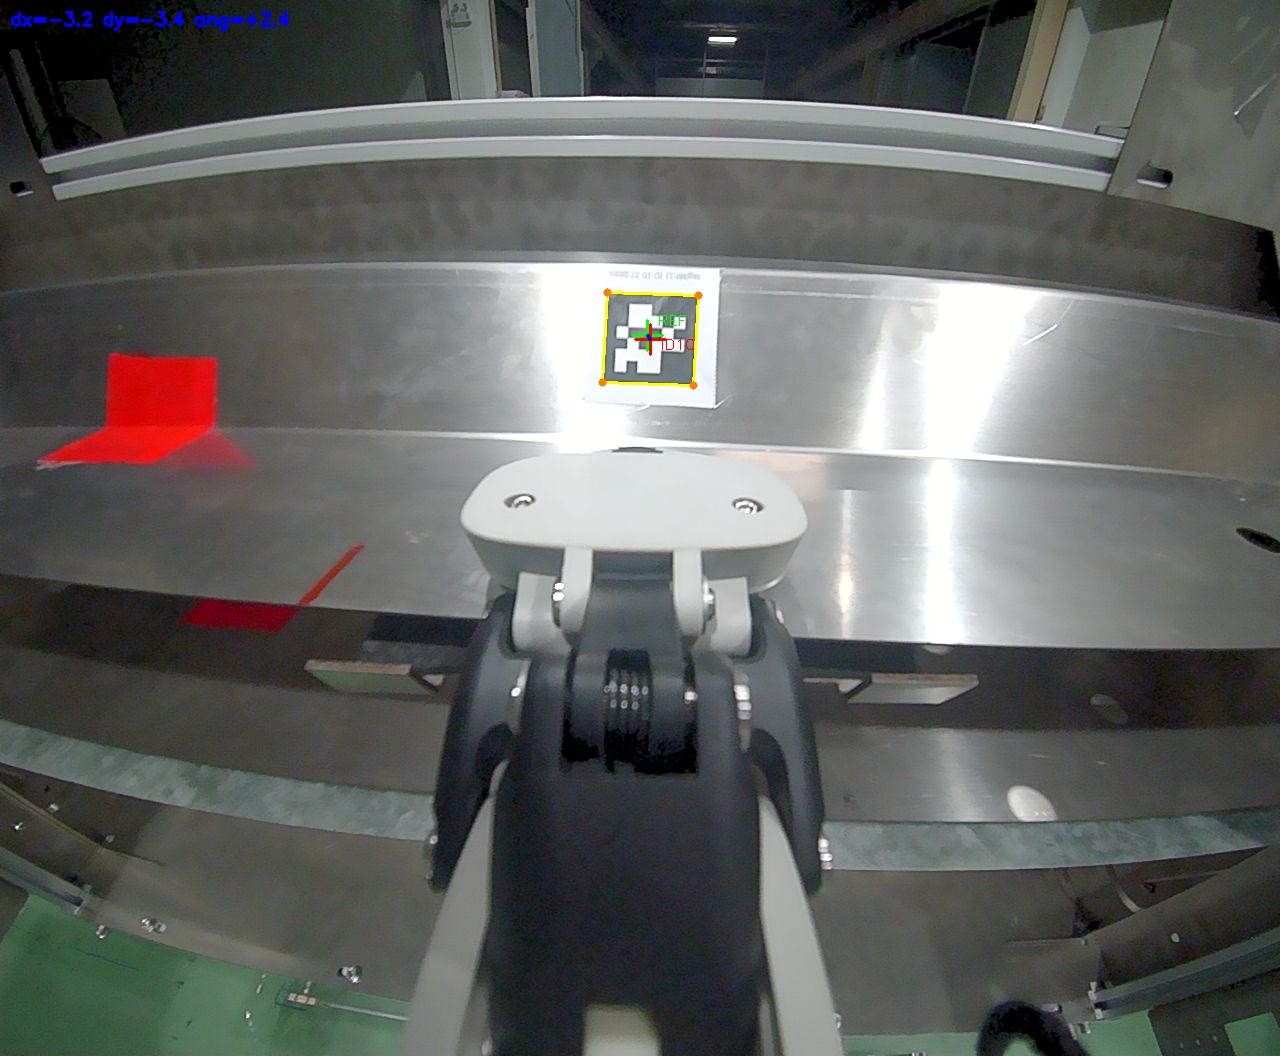
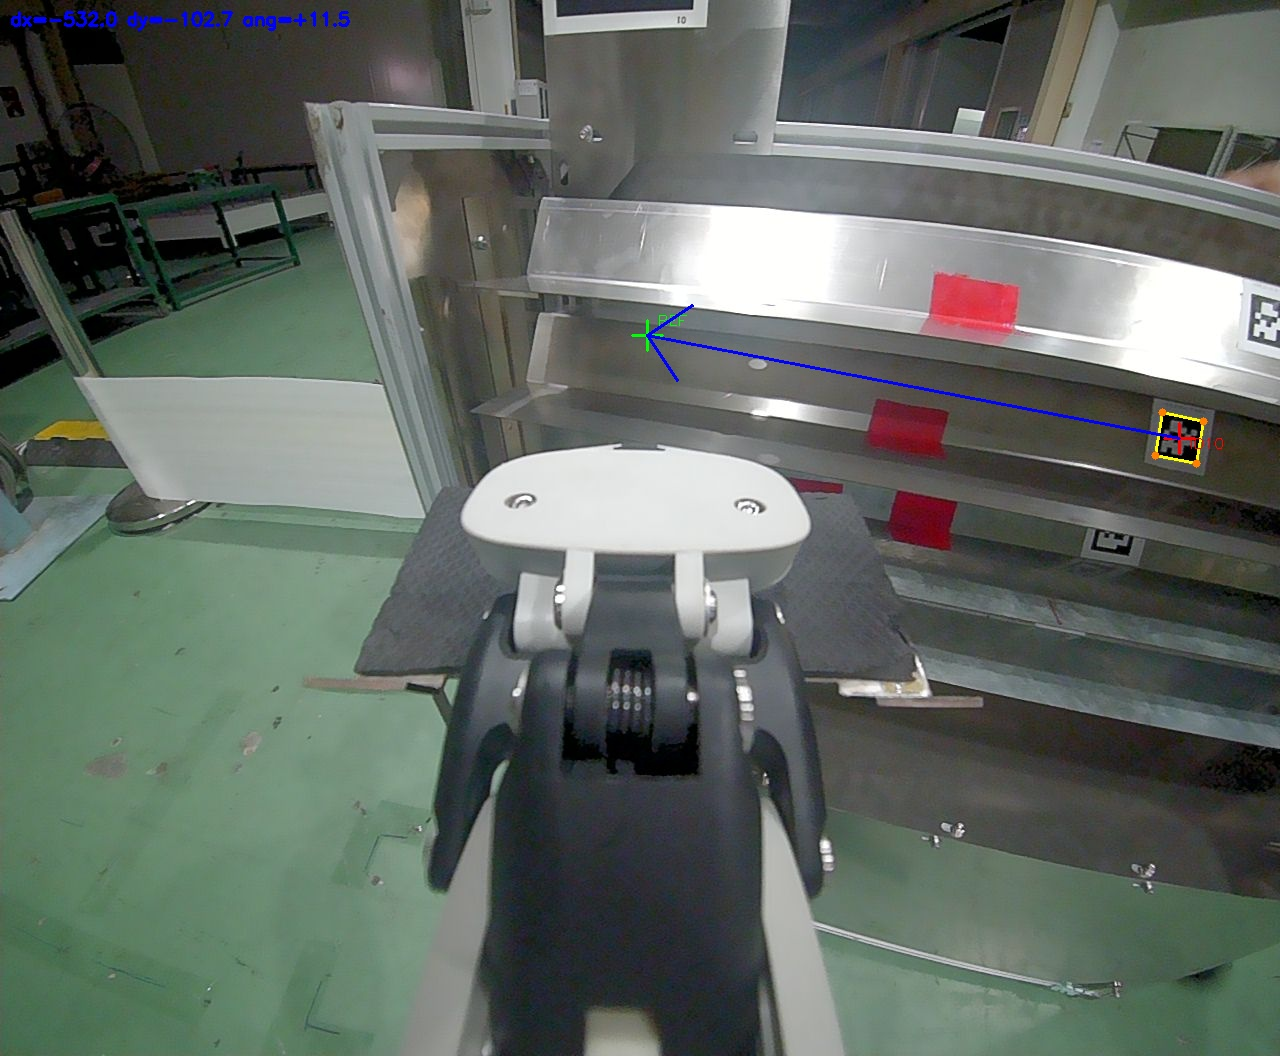
增加腰部纠偏

diff --git a/runtime/workfllow.py b/runtime/workfllow.py
@@ -17,6 +17,20 @@ MAP_POS_PutSmall = 6
 
 G2 = Minth.G2()
 
+def absence_detection(ROI):
+    while True:
+        img_path = capture_head_color(G2)
+        img = cv2.imread(img_path)
+        if img.shape[:2] != (400, 640):
+            img = cv2.resize(img, (640, 400))
+        result = analyze_top_workpiece(img,ROI)
+        if result == 0:
+            break
+        else:
+            playMp3()
+            # G2.TTS("ワークが取り除かれるのを待機；等待工件拿开")
+            time.sleep(5)
+
 def playMp3(mp3="/playMP3"):
     # 往 localhost:1883 /playMP3 发送 MP3 播放命令
     _mqtt = mqtt.Client(mqtt.CallbackAPIVersion.VERSION2, client_id="bbbb_mp3")
@@ -25,26 +39,12 @@ def playMp3(mp3="/playMP3"):
     _mqtt.publish(mp3, json.dumps({"cmd": "play", "file": "JPCH1.mp3"}), qos=0)
 
 def putA():
-    G2.ARMS("a3")
-    # G2.GO(5)
-    G2.ARMS("a5")
     G2.REL({"x": -1.7,"y": -1.7}) 
     G2.GO(MAP_POS_PutSmall)
     positioning("/data/wxf/wxf0721/runtime/references-tag/ref_id5_id6_dun.json",G2=G2)
     G2.WBC("xx")
 
-    while True:
-        img_path = capture_head_color(G2)
-        img = cv2.imread(img_path)
-        if img.shape[:2] != (400, 640):
-            img = cv2.resize(img, (640, 400))
-        result = analyze_top_workpiece(img,(0,215,440,img.shape[0]-215))
-        if result == 0:
-            break
-        else:
-            playMp3()
-            # G2.TTS("ワークが取り除かれるのを待機；等待工件拿开")
-            time.sleep(5)
+    absence_detection((0,215,440,400-215))
 
     G2.WBC("W2.3")
     G2.WBC("W2")
@@ -62,10 +62,9 @@ def putA():
     G2.WBC("W10") 
 
 def UpPutBig():
-    # G2.ARMS("a3")
-    # G2.GO(3)
+    G2.GO(3)
     G2.WBC("xx")
-    # G2.GO(MAP_POS_PutBig)
+    G2.GO(MAP_POS_PutBig)
     results = pt("/data/wxf/wxf0721/runtime/references-tag/ref_id3_id4_20260901_133511.json",G2=G2)
     _res = results[-1]
     offestX = -_res["dt"][0]
@@ -87,25 +86,12 @@ def UpPutBig():
 
     
 def putBig():
-    G2.ARMS("a3")
-    G2.ARMS("a5")
     G2.GO(3)
     G2.GO(MAP_POS_PutBig)
     positioning("/data/wxf/wxf0721/runtime/references-tag/ref_id3_id4_dun.json",G2=G2)
     G2.WBC("xx")
 
-    while True:
-        img_path = capture_head_color(G2)
-        img = cv2.imread(img_path)
-        if img.shape[:2] != (400, 640):
-            img = cv2.resize(img, (640, 400))
-        result = analyze_top_workpiece(img,(305,205,img.shape[1]-305,img.shape[0]-205))
-        if result == 0:
-            break
-        else:
-            playMp3()
-            # G2.TTS("ワークが取り除かれるのを待機；等待工件拿开")
-            time.sleep(5)
+    absence_detection((305,205,640-305,400-205))
 
     G2.WBC("x2")
     G2.WBC("x3")
@@ -125,30 +111,28 @@ def car_move():
     # 拖小车
     G2.WBC("Wdown2")
     G2.GO(MAP_POS_GetCar)
-    G2.GRIPPER({"left": -0.7, "right": -0.7})
-    positioning("/data/wxf/wxf0721/runtime/references-tag/reference_id1_id2.json", G2=G2,max_rounds=4)
+    G2.GRIPPER({"left": -0.75, "right": -0.75})
+    pt("/data/wxf/wxf0721/runtime/references-tag/reference_id1_id2.json", G2=G2)
     G2.ARMS("car3")
     G2.ARMS("car3.1")
     G2.ARMS("car5")
     # G2.OFFSET({"ry": 15, "ly": -15})
     # G2.REL({"x": 0.03}) 
     G2.GRIPPER({"left": 0, "right": 0})
-    G2.GO(MAP_POS_GetWorkpiece)
+    G2.REL({"y": -1}) 
+    # G2.GO(MAP_POS_GetWorkpiece)
     G2.GRIPPER({"left": -0.7, "right": -0.7})
     G2.ARMS("car3.1")
     G2.OFFSET({"lx": -200, "rx": -200})
     return True
 
-def get_work(carmove = False):
+def get_work():
     # 取放工件
     for i in [1,2,3,4]:
-        G2.GRIPPER({"left": -0.7, "right": -0.7})
+        G2.GRIPPER({"left": -0.75, "right": -0.75})
         G2.WBC("Wdown2")
         G2.GO(MAP_POS_GetWorkpiece)
-        if carmove:
-            carmove = False
-        else:
-            positioning("/data/wxf/wxf0721/runtime/references-tag/reference_id1_id2.json", G2=G2)
+        pt("/data/wxf/wxf0721/runtime/references-tag/reference_id1_id2.json", G2=G2)
 
         result = 0
         for j in range(3):
@@ -184,7 +168,9 @@ def get_work(carmove = False):
         # time.sleep(0.5)
         G2.OFFSET({"rz": 10})
         G2.REL({"x": -1}) 
-        
+        G2.ARMS("a3")
+        G2.ARMS("a5")
+
         # G2.ARMS("r1")
         # for j in range(3):
         #     img_path = capture_head_color(G2)
@@ -208,29 +194,28 @@ def get_work(carmove = False):
 def release_car():
     G2.WBC("Wdown2")
     G2.GO(MAP_POS_GetWorkpiece)
-    G2.GRIPPER({"left": -0.7, "right": -0.7})
-    positioning("/data/wxf/wxf0721/runtime/references-tag/reference_id1_id2.json", G2=G2)#max_rounds:4
+    G2.GRIPPER({"left": -0.75, "right": -0.75})
+    pt("/data/wxf/wxf0721/runtime/references-tag/reference_id1_id2.json", G2=G2)#max_rounds:4
     G2.ARMS("car3")
     G2.ARMS("car3.1")
     G2.ARMS("car5")
     # G2.OFFSET({"ry": 15, "ly": -15})
     # G2.REL({"x": 0.03}) 
     G2.GRIPPER({"left": 0, "right": 0})
-    # G2.REL({"y": -1}) 
-    G2.GO(MAP_POS_GetCar)
+    G2.REL({"y": 1}) 
+    # G2.GO(MAP_POS_GetCar)
     G2.GRIPPER({"left": -0.7, "right": -0.7})
     G2.ARMS("car3.1")
     G2.OFFSET({"lx": -200, "rx": -200})
     # G2.REL({"x": -0.5}) 
 
 def main():
-    carmove = False
     playMp3()
     # G2.TTS("大家好，我将进行焊装工位的上件和更换台车演示，我将把台车拉到夹具旁边。")
     G2.GO(MAP_POS_Home)
     G2.WBC("Wdown2")
-    # carmove = car_move()
-    get_work(carmove)
+    car_move()
+    get_work()
     release_car()
     G2.WBC("Wdown2")
     G2.GO(MAP_POS_Home)

diff --git a/runtime/main.py b/runtime/main.py
@@ -6,12 +6,12 @@ from positioning import positioning as pt
 G2 = Minth.G2()
 # img_path = capture_head_color(G2)
 # print(img_path)
-
+# G2.REL({"y": 0.5}) 
 # G2.GO(5)
 # G2.GO(4)
 # stref="/data/wxf/wxf0721/runtime/references-tag/ref_id3_id4_20260901_133511.json"
-stref="/data/wxf/wxf0721/runtime/references-tag/ref_id5_id6_dun.json"
-pt(stref,G2=G2,max_rounds=0)
+# stref="/data/wxf/wxf0721/runtime/references-tag/ref_id5_id6_dun.json"
+# pt(stref,G2=G2,max_rounds=0)
 
 
 # G2.GRIPPER({"left": -0.7, "right": -0.4})

diff --git a/runtime/put.py b/runtime/put.py
@@ -1,4 +1,5 @@
 def putBig(G2):
+    G2.GO(6)
     G2.WBC("xx")
     G2.GO(7)
     G2.ARMS("big1")
@@ -24,8 +25,11 @@ def putBig(G2):
     G2.GRIPPER({"right": -0.7})
     G2.OFFSET({"rx": -80})
     G2.ARMS("big11")
+    G2.GO(6)
 
 def putSmall(G2):
+    G2.GO(10)
+    G2.WBC("xx")    
     G2.GO(9)
     G2.ARMS("big1")
     G2.ARMS("big2")
@@ -46,3 +50,4 @@ def putSmall(G2):
     G2.GRIPPER({"right": -0.7})
     G2.OFFSET({"rx": -180})
     G2.WBC("xx")
+    G2.GO(10)
